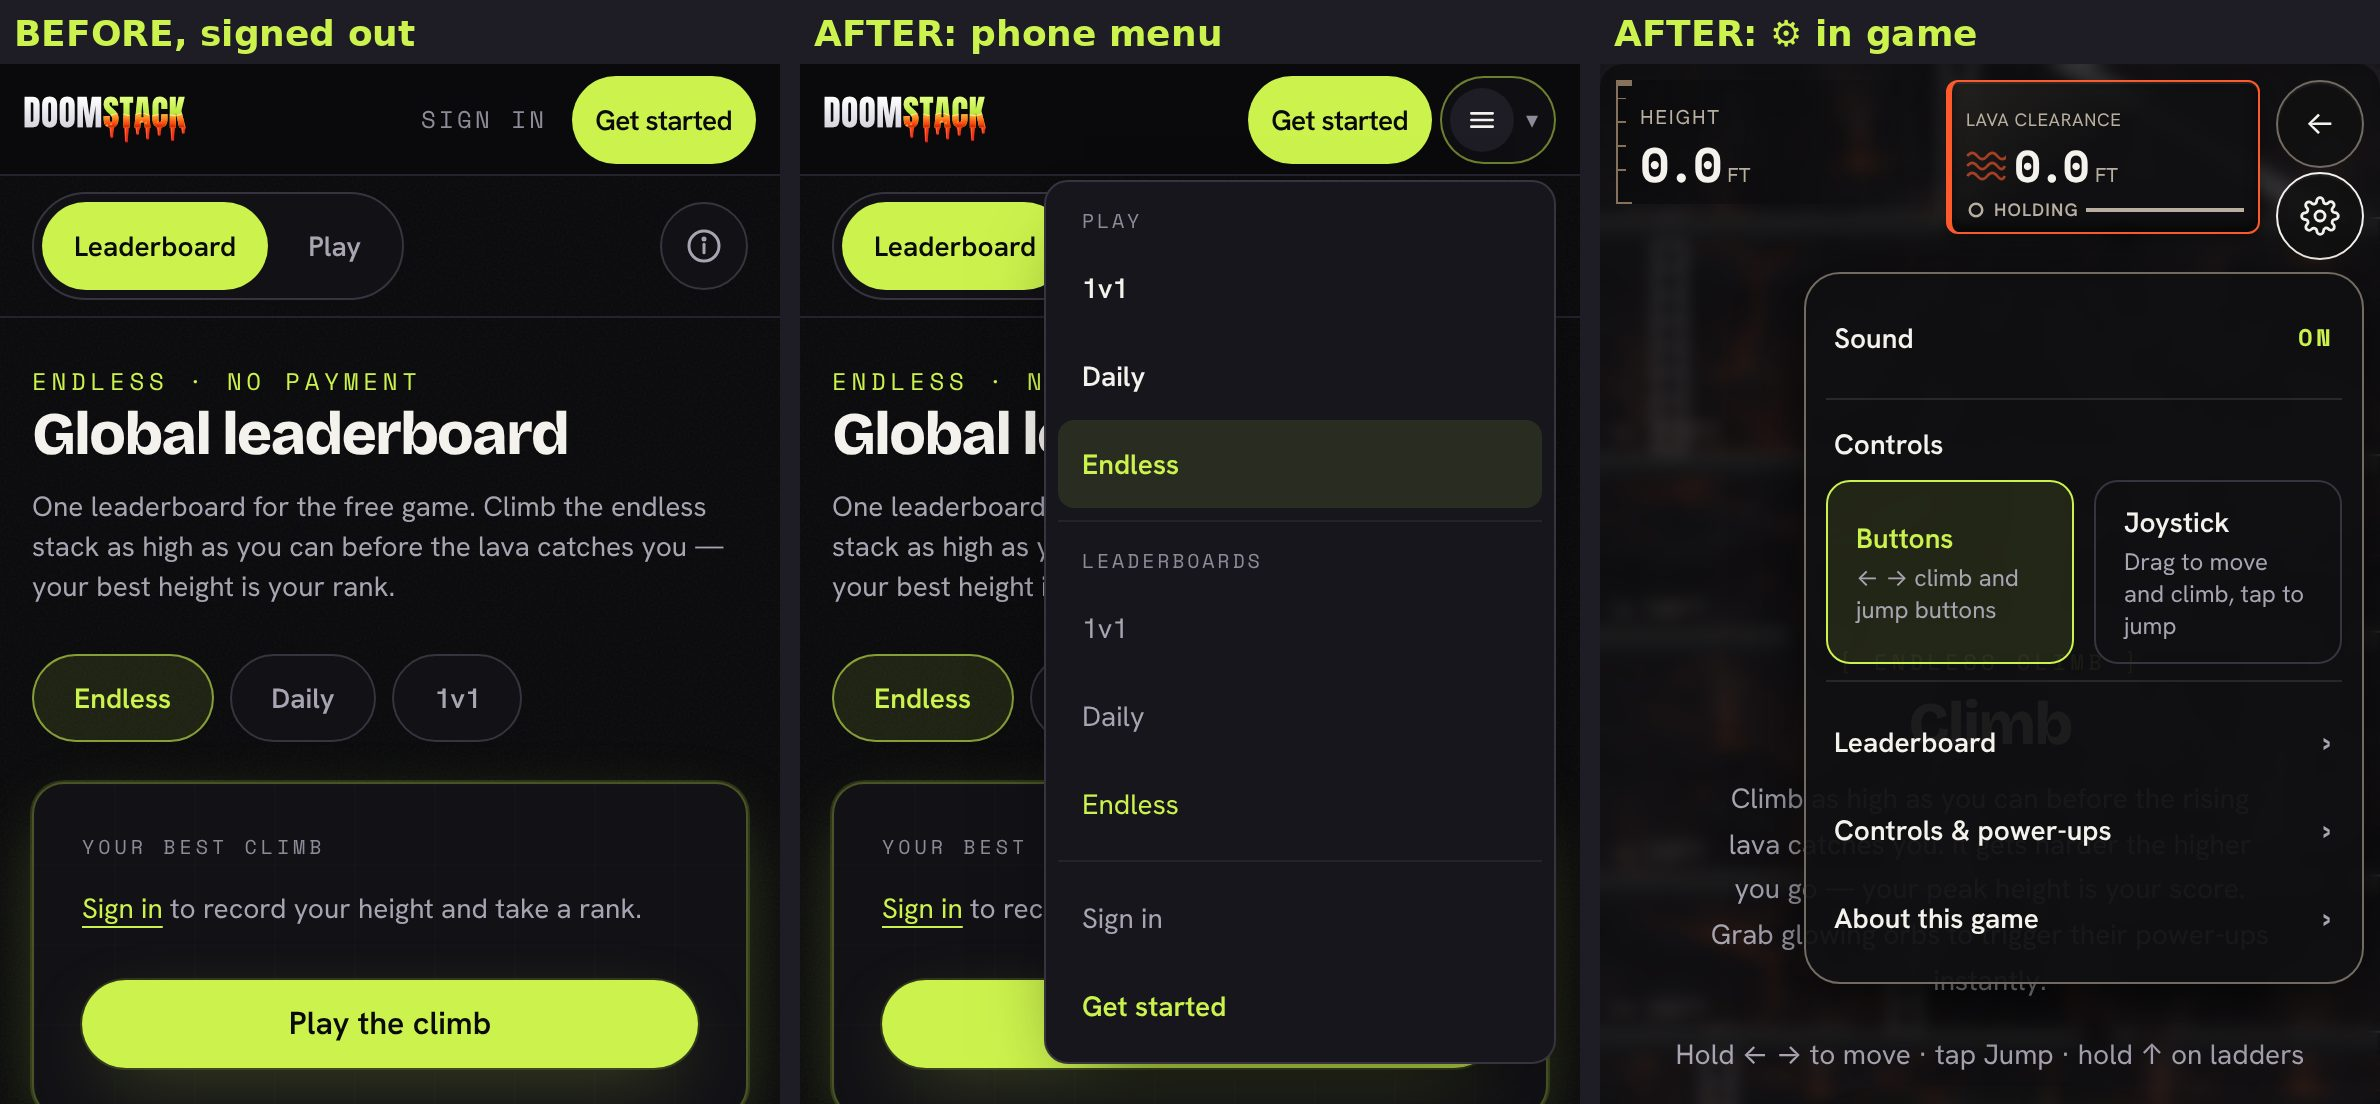
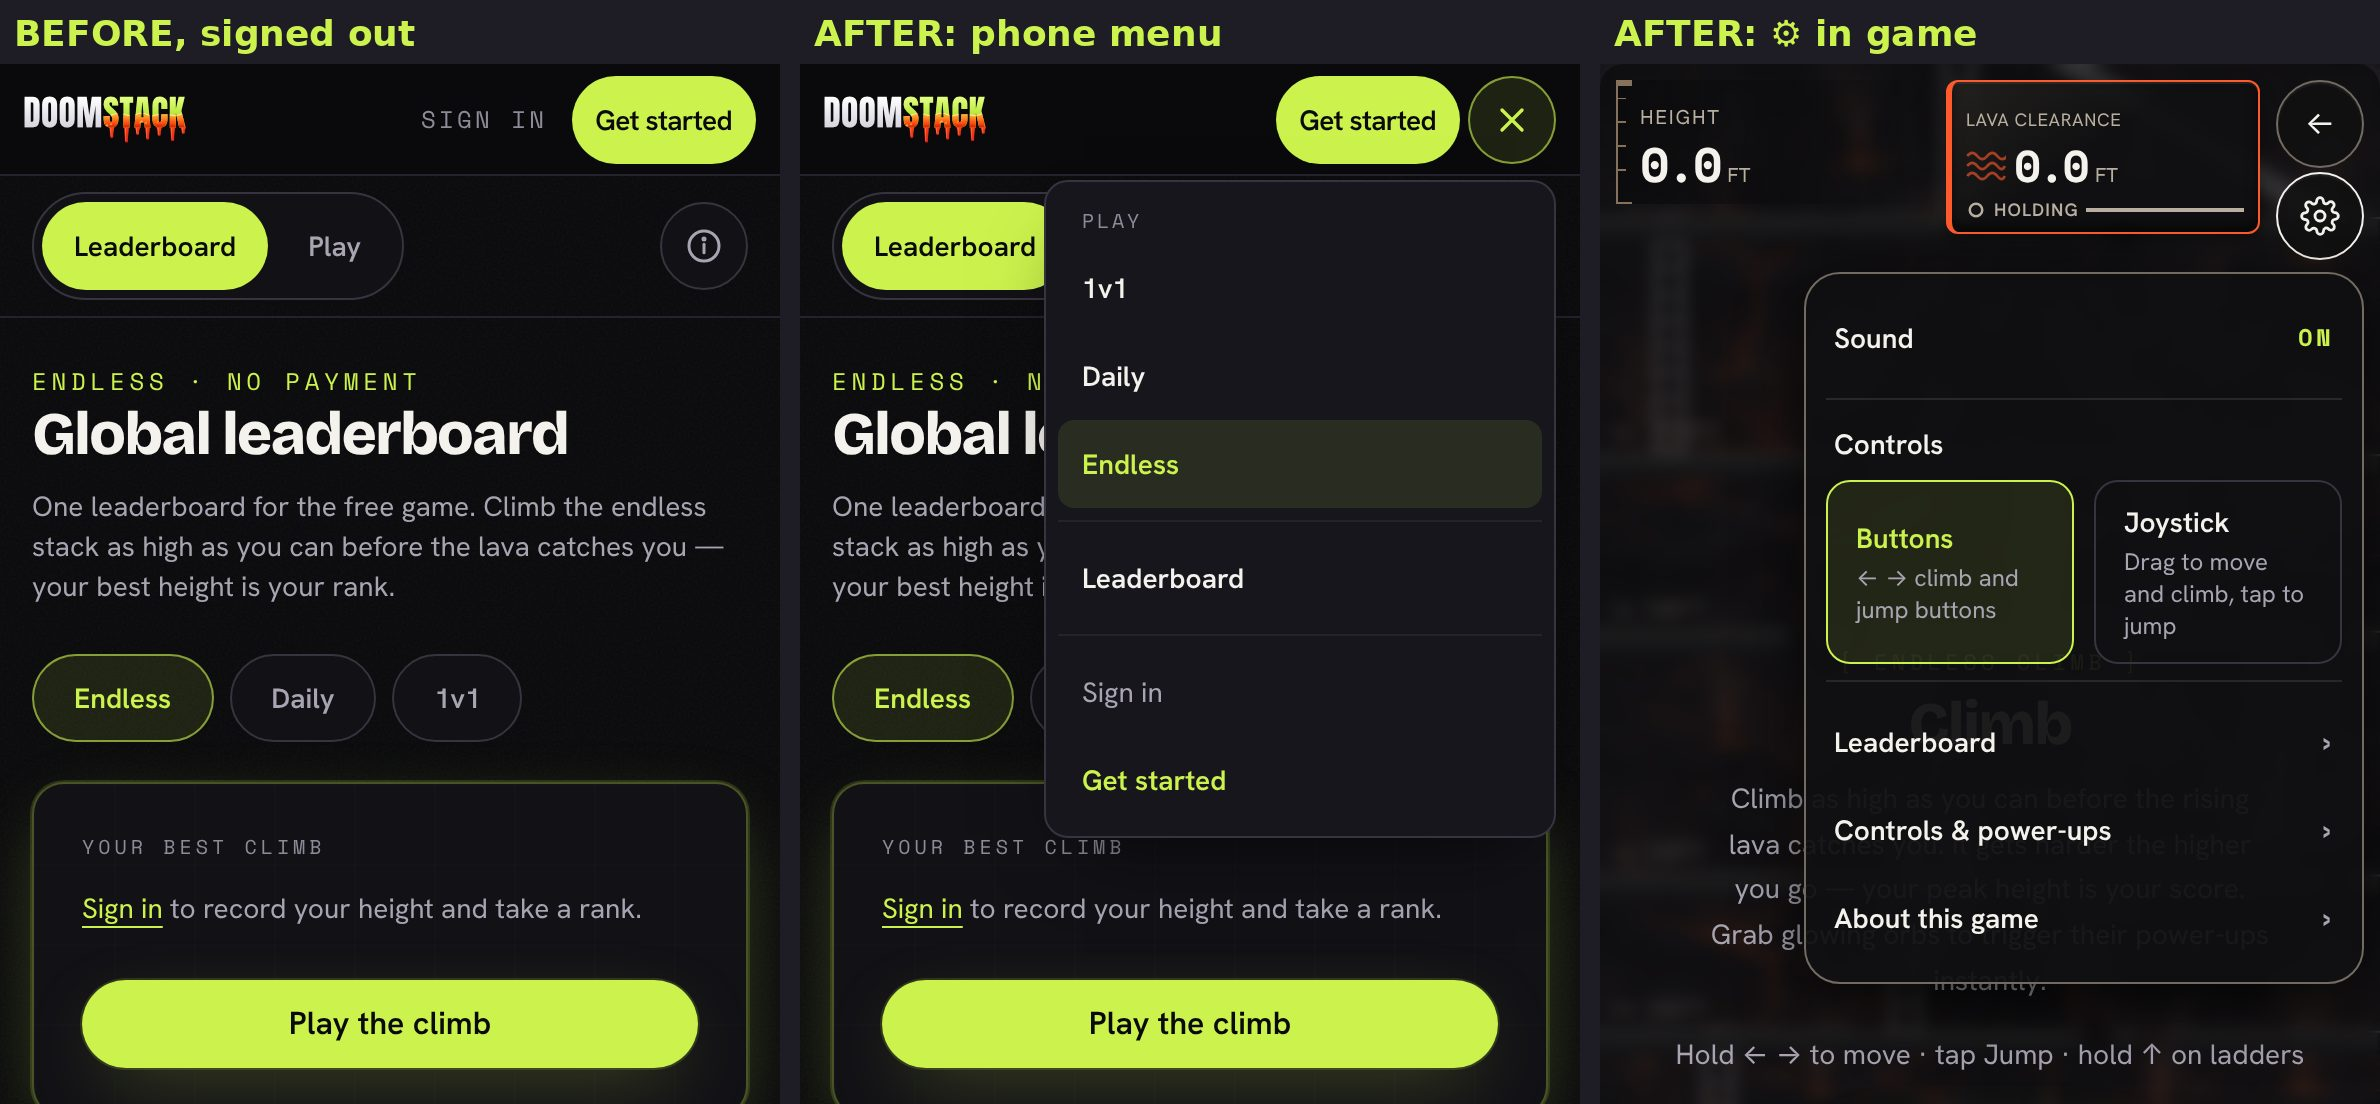
Phone menu: one Leaderboard link instead of a Leaderboards group
Every board carries the Endless | Daily | 1v1 switch, so the menu needs
one link: it opens the current mode's board (Endless off the mode pages).

Claude-Session: https://claude.ai/code/session_01Vu3tQ2CjPZ4ynm7m4A8Ciy

diff --git a/app/tests/components/navModesMenu.test.tsx b/app/tests/components/navModesMenu.test.tsx
@@ -7,7 +7,7 @@
  * house the same links".
  *
  * Mounts the real Navbar, signed out and signed in, and drives its dropdown:
- * both menus list the modes to play, then their leaderboards, phone-only.
+ * both menus list the modes to play, then one Leaderboard link, phone-only.
  *
  * @vitest-environment happy-dom
  */
@@ -62,15 +62,14 @@ const modes = () => host.querySelector('[role="group"][aria-label="Game modes"]'
 const modeLinks = () =>
   [...(modes()?.querySelectorAll("a") ?? [])].map((a) => [a.textContent, a.getAttribute("href")]);
 
-// Play group, then the Leaderboards group (Leeran chose this over a
-// Leaderboard button beside each mode).
-const EVERY_MODE = [
+// The three modes, then ONE Leaderboard link to the current mode's board
+// (every board has the Endless | Daily | 1v1 switch; Leeran: "a single link
+// & let them choose from the page itself").
+const rows = (board: string) => [
   ["1v1", "/duel"],
   ["Daily", "/daily"],
   ["Endless", "/play"],
-  ["1v1", "/duel/leaderboard"],
-  ["Daily", "/daily/leaderboard"],
-  ["Endless", "/climb"],
+  ["Leaderboard", board],
 ];
 
 describe("signed-out phone menu", () => {
@@ -81,10 +80,9 @@ describe("signed-out phone menu", () => {
     expect(trigger.getAttribute("aria-expanded")).toBe("false");
 
     act(() => trigger.click());
-    expect(modeLinks()).toEqual(EVERY_MODE);
+    expect(modeLinks()).toEqual(rows("/climb"));
     const current = [...modes()!.querySelectorAll("a")].map((a) => a.getAttribute("aria-current"));
-    expect(current).toEqual([null, null, "true", null, null, null]);
-    expect([...modes()!.querySelectorAll("p")].map((p) => p.textContent)).toEqual(["Play", "Leaderboards"]);
+    expect(current).toEqual([null, null, "true", null]);
 
     const menu = host.querySelector('nav[aria-label="Menu"]')!;
     expect([...menu.querySelectorAll("a")].slice(-2).map((a) => [a.textContent, a.getAttribute("href")])).toEqual([
@@ -112,6 +110,18 @@ describe("signed-out phone menu", () => {
     expect(document.activeElement).toBe(guestTrigger());
   });
 
+  it("points the one Leaderboard link at the current mode's board, Endless off the mode pages", () => {
+    mount("Daily Climb");
+    act(() => guestTrigger()!.click());
+    expect(modeLinks().at(-1)).toEqual(["Leaderboard", "/daily/leaderboard"]);
+    act(() => root.unmount());
+    host.remove();
+
+    mount("Rules");
+    act(() => guestTrigger()!.click());
+    expect(modeLinks().at(-1)).toEqual(["Leaderboard", "/climb"]);
+  });
+
   it("keeps the wide-screen Sign in link hidden on phones only, and Get started everywhere", () => {
     mount();
     const outside = [...host.querySelectorAll("a")].filter((a) => !a.closest('nav[aria-label="Menu"]'));
@@ -130,7 +140,7 @@ describe("signed-in account menu", () => {
     expect(guestTrigger()).toBeNull();
 
     act(() => accountTrigger()!.click());
-    expect(modeLinks()).toEqual(EVERY_MODE);
+    expect(modeLinks()).toEqual(rows("/duel/leaderboard"));
     expect(modes()!.closest(".sm\\:hidden")).not.toBeNull();
     expect(modes()!.querySelector('a[aria-current="true"]')?.textContent).toBe("1v1");
   });

diff --git a/app/src/components/NavModesMenu.tsx b/app/src/components/NavModesMenu.tsx
@@ -24,10 +24,12 @@ const ITEM_BASE =
 const ITEM_MUTED = `${ITEM_BASE} text-text-secondary hover:text-text-primary`;
 
 /**
- * Two short groups: Play (1v1, Daily, Endless), then Leaderboards (the same
- * three). Leeran didn't want a Leaderboard button beside each mode name.
+ * The three modes to play, then one Leaderboard link. It opens the current
+ * mode's board (Endless off the mode pages); every board carries the
+ * Endless | Daily | 1v1 switch, so one link is enough (Leeran).
  */
 export function ModeRows({ active, onPick }: { active: GameMode | null; onPick: () => void }) {
+  const board = (GAME_MODES.find((m) => m.mode === active) ?? GAME_MODES.find((m) => m.mode === "endless"))!.board;
   return (
     <div role="group" aria-label="Game modes">
       <GroupHeading>Play</GroupHeading>
@@ -43,18 +45,9 @@ export function ModeRows({ active, onPick }: { active: GameMode | null; onPick: 
         </Link>
       ))}
       <div className="my-1.5 border-t border-border-subtle" aria-hidden="true" />
-      <GroupHeading>Leaderboards</GroupHeading>
-      {GAME_MODES.map(({ mode, board, label }) => (
-        <Link
-          key={mode}
-          href={board}
-          aria-label={`${label} leaderboard`}
-          onClick={onPick}
-          className={mode === active ? `${ITEM_BASE} text-signal` : ITEM_MUTED}
-        >
-          {label}
-        </Link>
-      ))}
+      <Link href={board} onClick={onPick} className={`${ITEM_BASE} font-semibold text-text-primary`}>
+        Leaderboard
+      </Link>
     </div>
   );
 }
